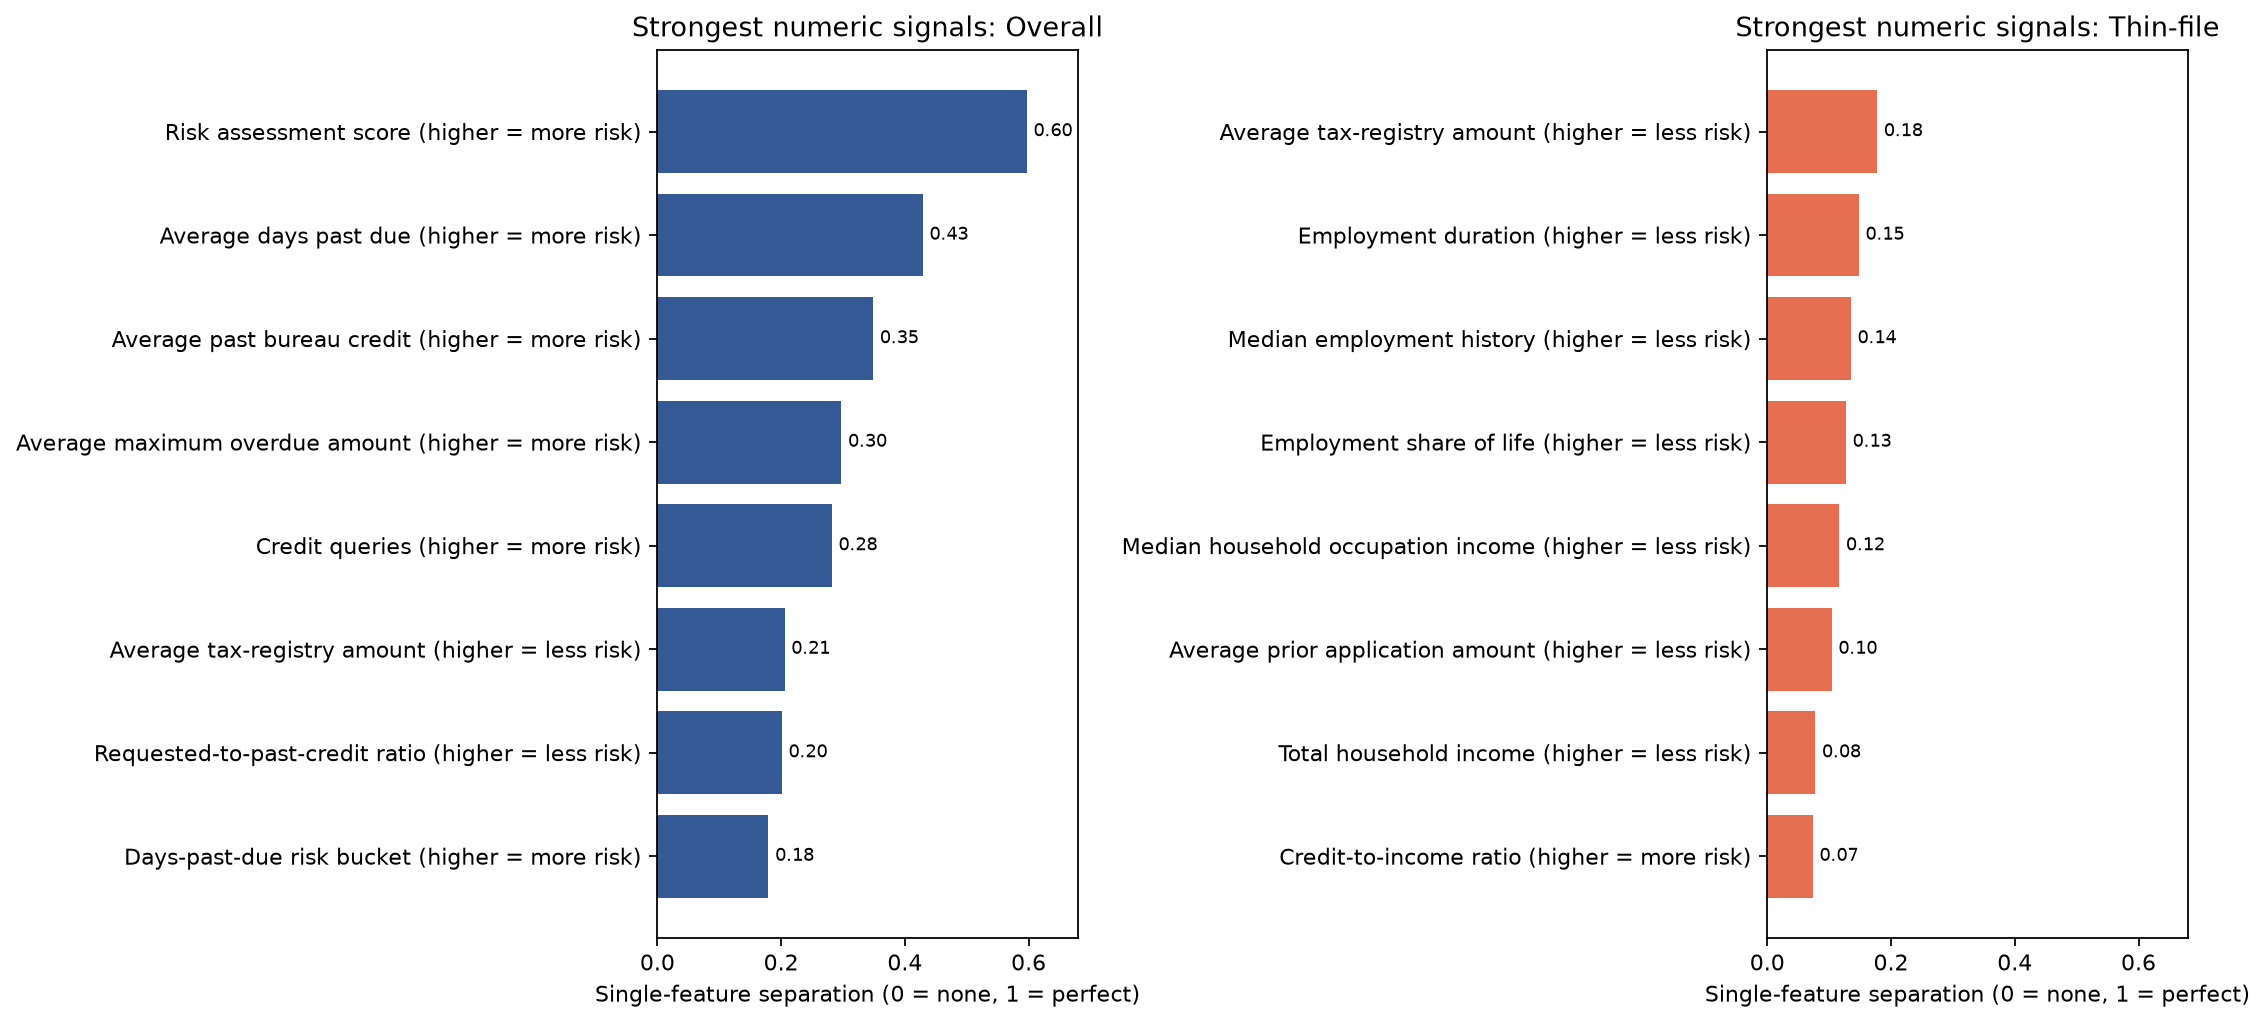
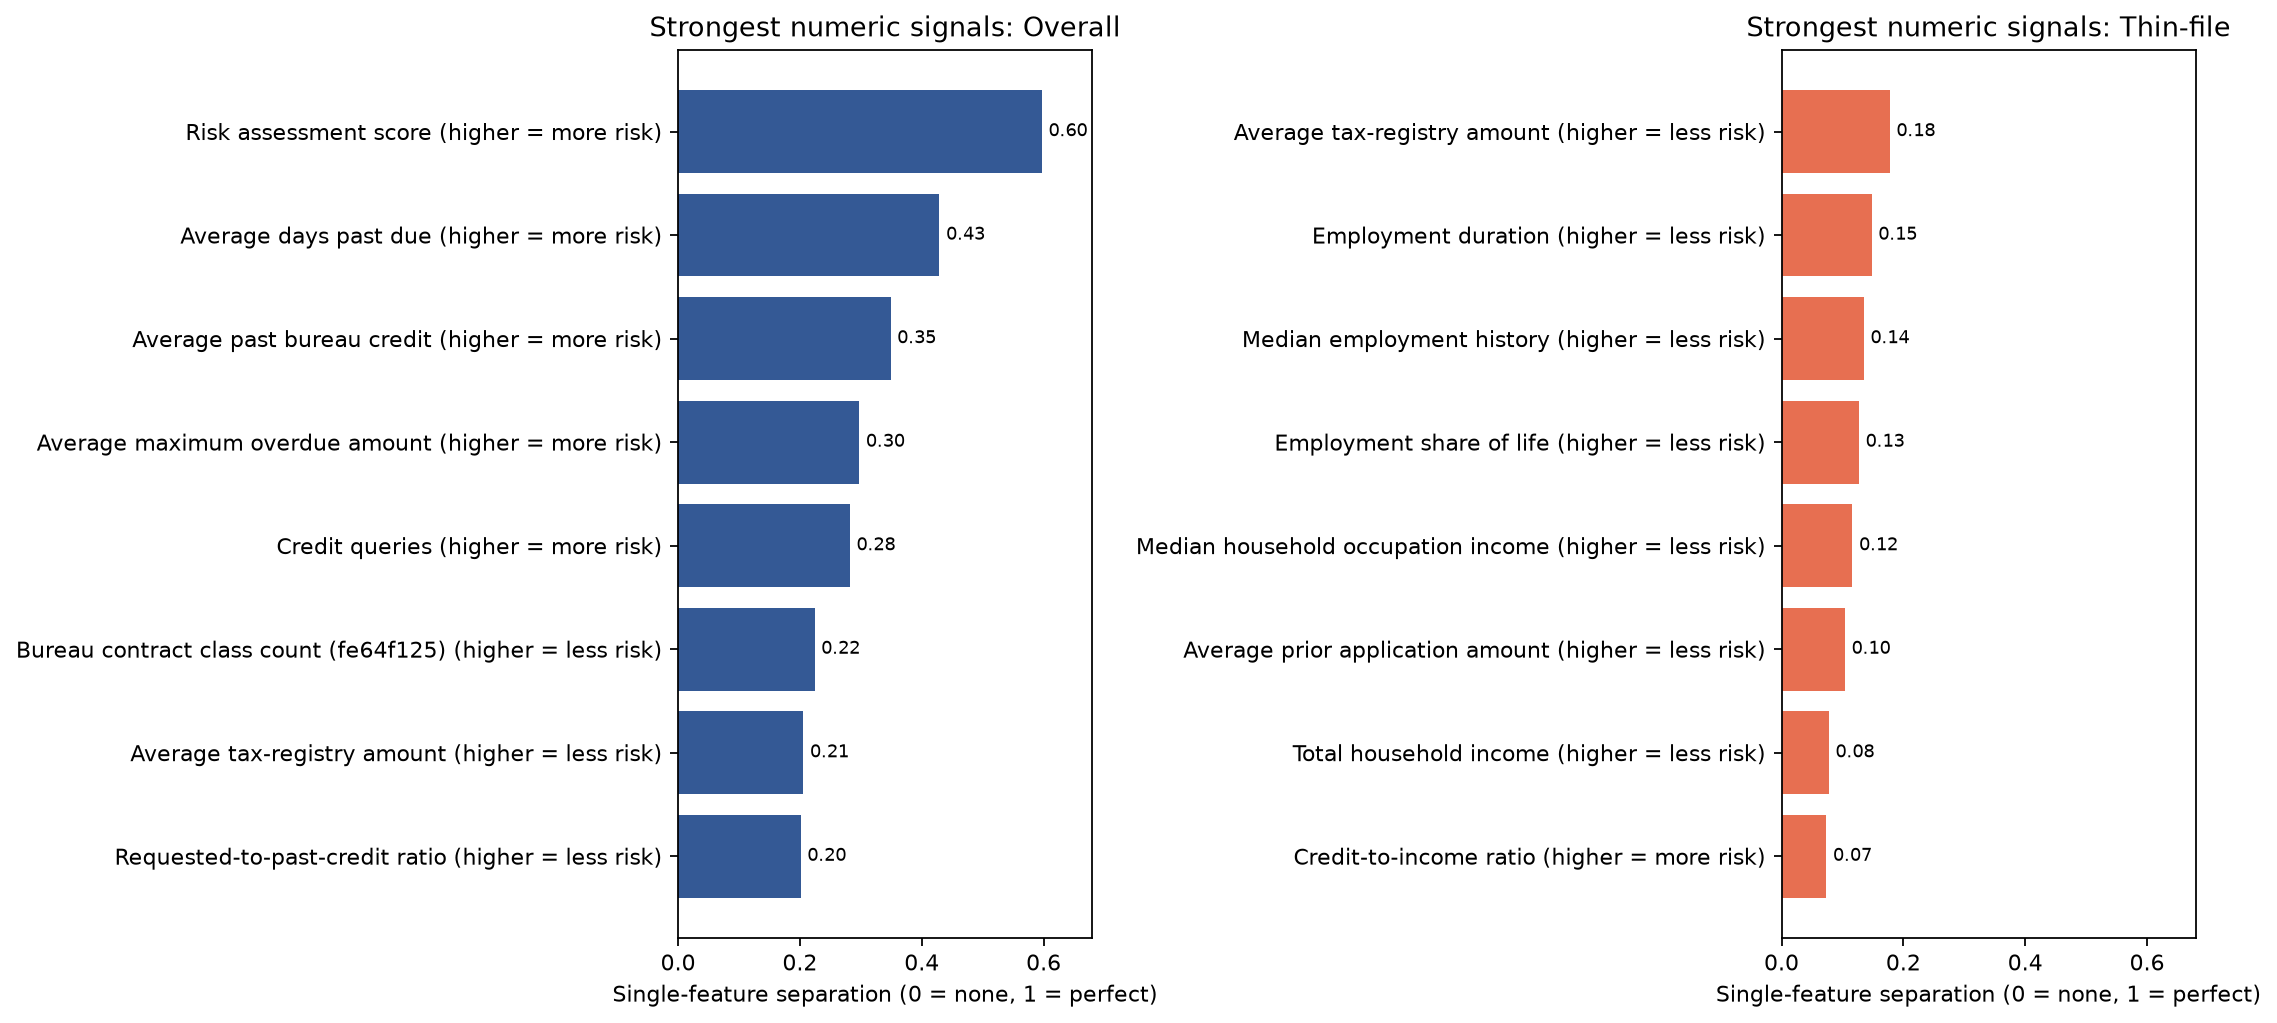
Include bureau contract category counts in Fig. 6 signal ranking

diff --git a/notebooks/eda.py b/notebooks/eda.py
@@ -97,6 +97,12 @@ DISPLAY_NAMES = {
     "n_unknown": "Number of unknown values",
     "is_thin_file": "Thin-file indicator",
     "external_coverage": "Available data sources",
+    "classificationofcontr_13M_54ddc605": "Bureau contract class count (54ddc605)",
+    "classificationofcontr_13M_fe64f125": "Bureau contract class count (fe64f125)",
+    "classificationofcontr_13M_6f5666c7": "Bureau contract class count (6f5666c7)",
+    "classificationofcontr_13M_d8bf6dd7": "Bureau contract class count (d8bf6dd7)",
+    "classificationofcontr_13M_01851564": "Bureau contract class count (01851564)",
+    "classificationofcontr_13M_ba38dde4": "Bureau contract class count (ba38dde4)",
 }
 
 
@@ -139,7 +145,7 @@ def numeric_signal(data: pd.DataFrame) -> pd.DataFrame:
         for column in sample.select_dtypes(include=["number", "bool"]).columns
         if column not in excluded
         and not column.startswith(
-            ("status_219L_", "housingtype_772M_", "name_4527232M_", "classificationofcontr_13M_")
+            ("status_219L_", "housingtype_772M_", "name_4527232M_")
         )
     ]
     groups = {

diff --git a/reports/eda/EDA_SUMMARY.md b/reports/eda/EDA_SUMMARY.md
@@ -113,17 +113,23 @@ should not be used as a feature on its own.
 
 The separation score is `2 × |AUC - 0.5|`. A score of 0 means the feature has no ability to rank defaults
 by itself; a score of 1 means perfect separation. Mean, median, and maximum versions of the same concept
-are grouped so the chart does not repeat nearly identical signals.
+are grouped so the chart does not repeat nearly identical signals. Bureau contract category count columns
+(`classificationofcontr_13M_*`) are treated as one family; the chart shows only the strongest member.
 
-Overall, the strongest numeric signals are risk assessment, days past due, past bureau credit, overdue
-amounts, and credit-query activity. These depend heavily on bureau history.
+For established borrowers, the strongest numeric signals are risk assessment, days past due, bureau
+contract category counts, past bureau credit, overdue amounts, and credit-query activity. The highest-
+signal category count feature (`classificationofcontr_13M_54ddc605`) reaches separation 0.41 — each
+additional contract of that class is associated with a monotonically higher default rate (9.4% at count 0
+rising to 64.6% at count 8). All bureau signals depend on bureau history and are unavailable for
+thin-file applicants.
 
 For thin-file applicants, the strongest numeric signals shift to tax-registry amounts, employment
 duration, employment history, household income, prior-application amounts, and credit-to-income. Their
 individual separation is weaker, which shows why thin-file predictions are more difficult.
 
-The direction written beside each feature matters. For example, higher days past due is associated with
-more defaults, while higher tax-registry amounts and longer employment are associated with fewer defaults.
+The direction written beside each feature matters. For example, higher days past due and higher bureau
+contract category counts are associated with more defaults, while higher tax-registry amounts and longer
+employment are associated with fewer defaults.
 
 **Note:** Figure 6 covers numeric features only. Education — a categorical feature — is the strongest
 thin-file signal overall (see Figure 8).
@@ -204,8 +210,10 @@ default rate.
 1. Thin-file applicants default more often than established applicants, and their default rate changes
    substantially across the training period (31% in early weeks → 20% late; established stays flat at
    16.4% throughout).
-2. Traditional bureau measures provide strong risk separation for established applicants but are absent
-   for every thin-file applicant.
+2. Traditional bureau measures — including risk assessment score, days past due, past credit, overdue
+   amounts, and bureau contract category counts (`classificationofcontr_13M_54ddc605` reaches separation
+   0.41) — provide strong risk separation for established applicants but are absent for every thin-file
+   applicant.
 3. **Education is the single strongest thin-file predictor** (separation 0.41), more than 2× stronger
    than the next-best feature. It should be used as an ordinal or target-encoded feature, not one-hot.
 4. Tax-registry amounts, employment duration, employment history, and household income are the strongest
